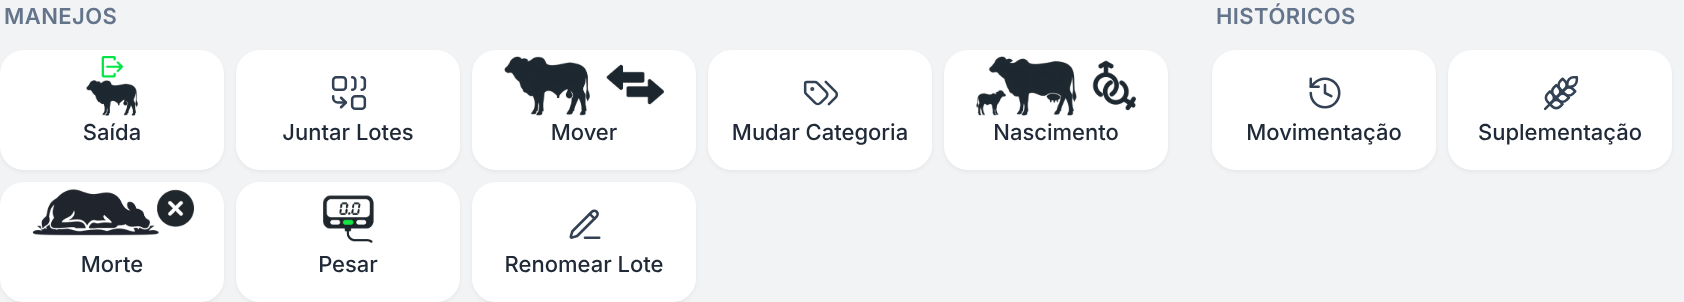
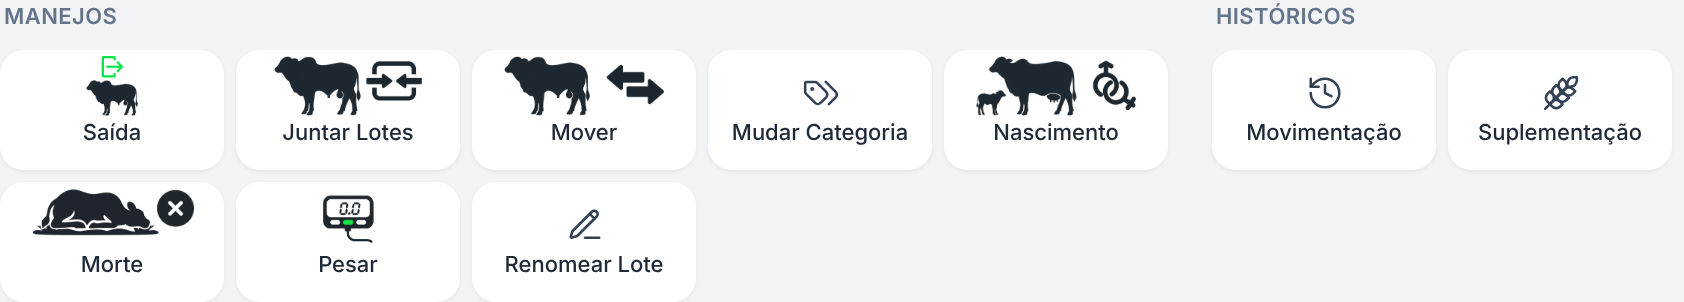
Manejos: ícone do Juntar Lotes (D-PROD-131)
Claude-Session: https://claude.ai/code/session_01UazgFfaVrfzGvoj5VQP7sQ

Changed region(s): [[0.1544, 0.1788, 0.247, 0.3874]]

diff --git a/tests/smoke/iconesManejo.test.jsx b/tests/smoke/iconesManejo.test.jsx
@@ -1,21 +1,22 @@
 // @vitest-environment jsdom
-/** D-PROD-131 — "Saída" (antigo Abate), "Mover", "Pesar", "Nascimento" e "Morte" usam as imagens do proprietário. */
+/** D-PROD-131 — "Saída" (antigo Abate), "Mover", "Pesar", "Nascimento", "Morte" e "Juntar Lotes" usam as imagens do proprietário. */
 import React from "react";
 import { describe, it, expect, afterEach } from "vitest";
 import { render, screen, cleanup } from "@testing-library/react";
 import { existsSync, readFileSync } from "node:fs";
 import AcoesDoLote from "@/components/mapa/AcoesDoLote";
-import { IconeMorte, IconeMoverAnimais, IconeNascimento, IconePesar, IconeSaida } from "@/components/mapa/IconesManejo";
+import { IconeJuntarLotes, IconeMorte, IconeMoverAnimais, IconeNascimento, IconePesar, IconeSaida } from "@/components/mapa/IconesManejo";
 
 afterEach(cleanup);
 
 describe("Ícones em imagem dos manejos (D-PROD-131)", () => {
-  it("imagens existem e o Detalhes do Lote usa nos quadros Saída, Mover, Pesar, Nascimento e Morte", () => {
+  it("imagens existem e o Detalhes do Lote usa nos quadros Saída, Mover, Pesar, Nascimento, Morte e Juntar Lotes", () => {
     expect(existsSync("public/icons/mover-animais.png")).toBe(true);
     expect(existsSync("public/icons/pesar.png")).toBe(true);
     expect(existsSync("public/icons/nascimento.png")).toBe(true);
     expect(existsSync("public/icons/saida.png")).toBe(true);
     expect(existsSync("public/icons/morte.png")).toBe(true);
+    expect(existsSync("public/icons/juntar-lotes.png")).toBe(true);
     const dl = readFileSync("src/components/mapa/DetalhesLote.jsx", "utf8");
     expect(dl).toMatch(/nome: 'Mover', Icone: IconeMoverAnimais/);
     expect(dl).toMatch(/nome: 'Pesar', Icone: IconePesar/);
@@ -23,7 +24,8 @@ describe("Ícones em imagem dos manejos (D-PROD-131)", () => {
     expect(dl).toMatch(/nome: 'Saída', Icone: IconeSaida, onClick: \(\) => abrirManejo\(setShowAbate\)/);
     expect(dl).toMatch(/titulo="Registrar Saída"/);
     expect(dl).toMatch(/nome: 'Morte', Icone: IconeMorte/);
-    expect(dl).not.toMatch(/nome: 'Abate'|ArrowLeftRight|\bScale\b|\bBaby\b|\bBeef\b|HeartCrack/);
+    expect(dl).toMatch(/nome: 'Juntar Lotes', Icone: IconeJuntarLotes/);
+    expect(dl).not.toMatch(/nome: 'Abate'|ArrowLeftRight|\bScale\b|\bBaby\b|\bBeef\b|HeartCrack|\bCombine\b/);
   });
 
   it("aparecem no quadro, com o nome, sem descer a linha", () => {
@@ -34,6 +36,7 @@ describe("Ícones em imagem dos manejos (D-PROD-131)", () => {
         { nome: "Nascimento", Icone: IconeNascimento, onClick: () => {} },
         { nome: "Saída", Icone: IconeSaida, onClick: () => {} },
         { nome: "Morte", Icone: IconeMorte, onClick: () => {} },
+        { nome: "Juntar Lotes", Icone: IconeJuntarLotes, onClick: () => {} },
       ] }]} />,
     );
     expect(screen.getByRole("button", { name: "Mover" }).querySelector("img")?.getAttribute("src")).toBe("/icons/mover-animais.png");
@@ -41,6 +44,7 @@ describe("Ícones em imagem dos manejos (D-PROD-131)", () => {
     expect(screen.getByRole("button", { name: "Nascimento" }).querySelector("img")?.getAttribute("src")).toBe("/icons/nascimento.png");
     expect(screen.getByRole("button", { name: "Saída" }).querySelector("img")?.getAttribute("src")).toBe("/icons/saida.png");
     expect(screen.getByRole("button", { name: "Morte" }).querySelector("img")?.getAttribute("src")).toBe("/icons/morte.png");
+    expect(screen.getByRole("button", { name: "Juntar Lotes" }).querySelector("img")?.getAttribute("src")).toBe("/icons/juntar-lotes.png");
     const css = readFileSync("src/styles/lancamento-lote.css", "utf8");
     expect(css).toMatch(/\.mk-al__quadro \.mk-al__img \{[^}]*display: block;[^}]*height: 32px;/);
     expect(css).toMatch(/\.mk-al--embaixo \.mk-al__quadro \.mk-al__img \{[^}]*height: 30px;[^}]*margin: -9px 0 -2px;/);

diff --git a/src/components/mapa/DetalhesLote.jsx b/src/components/mapa/DetalhesLote.jsx
@@ -34,8 +34,8 @@ import LancField from "@/components/cadastro/base1/LancField";
 import ResumoSuplementacao from "../suplementacao/ResumoSuplementacao";
 import InformacoesArea from "./InformacoesArea";
 import { Progress } from "@/components/ui/progress";
-import { Combine, History, PencilLine, Tags, Wheat } from "lucide-react";
-import { IconeMorte, IconeMoverAnimais, IconeNascimento, IconePesar, IconeSaida } from "@/components/mapa/IconesManejo";
+import { History, PencilLine, Tags, Wheat } from "lucide-react";
+import { IconeJuntarLotes, IconeMorte, IconeMoverAnimais, IconeNascimento, IconePesar, IconeSaida } from "@/components/mapa/IconesManejo";
 import { corpoNascimento, corpoPesagem, corpoMudancaCategoria, corpoJuncao, corpoBaixa, previaJuncao, corpoTransferenciaLedger, ehPosicaoDoLedger } from "@/domain/lotes/manejoRebanho";
 import { enviarManejoRebanho, enviarJuncaoLotes, enviarBaixaRebanho, enviarTransferenciaLedger, mensagemDaTransferenciaLedger, mensagemDoErro, codigoDoErro, MENSAGENS_MANEJO_REBANHO } from "@/services/manejoRebanhoService";
 import { escopoDoUsuario } from "../lotes/ExcluirMovimentacao";
@@ -586,7 +586,7 @@ export default function DetalhesLote({ lotes, onClose, permissions = {} }) {
         };
         const manejos = [
           permissions.registrar_abate !== false && { nome: 'Saída', Icone: IconeSaida, onClick: () => abrirManejo(setShowAbate) },
-          permissions.juntar_lotes !== false && lotes.length > 1 && categoriasJuntaveis.length > 0 && { nome: 'Juntar Lotes', Icone: Combine, onClick: abrirJuncao },
+          permissions.juntar_lotes !== false && lotes.length > 1 && categoriasJuntaveis.length > 0 && { nome: 'Juntar Lotes', Icone: IconeJuntarLotes, onClick: abrirJuncao },
           permissions.mover_lotes !== false && { nome: 'Mover', Icone: IconeMoverAnimais, onClick: () => abrirManejo(setShowMovimentacao) },
           permissions.mudar_categoria_lotes !== false && { nome: 'Mudar Categoria', Icone: Tags, onClick: () => abrirManejo(setShowMudancaCategoria) },
           permissions.registrar_nascimento !== false && { nome: 'Nascimento', Icone: IconeNascimento, onClick: () => abrirManejo(setShowNascimento) },

diff --git a/src/components/mapa/IconesManejo.jsx b/src/components/mapa/IconesManejo.jsx
@@ -29,3 +29,6 @@ export const IconeSaida = iconeImagem("/icons/saida.png");
 
 /** Morte: animal deitado com o X. */
 export const IconeMorte = iconeImagem("/icons/morte.png");
+
+/** Juntar Lotes: boi com as setas que se encontram. */
+export const IconeJuntarLotes = iconeImagem("/icons/juntar-lotes.png");

diff --git a/docs/engineering/DECISIONS.md b/docs/engineering/DECISIONS.md
@@ -5034,18 +5034,19 @@ Em cada cadeia: bloqueio antes do clique, exclusão do dependente, desbloqueio s
   - aproximando: média 97% e pior quadro 94%;
   - evidência: v19-05.
 
-## D-PROD-131 — Manejos "Saída" (antigo Abate), "Mover", "Pesar", "Nascimento" e "Morte": ícones do proprietário
+## D-PROD-131 — Manejos "Saída" (antigo Abate), "Mover", "Pesar", "Nascimento", "Morte" e "Juntar Lotes": ícones do proprietário
 
-- **Contexto:** o proprietário enviou imagens próprias para cinco botões de manejo e pediu que "Abate" passe a se chamar "Saída":
+- **Contexto:** o proprietário enviou imagens próprias para seis botões de manejo e pediu que "Abate" passe a se chamar "Saída":
   - Saída: um boi com a seta de saída;
   - Mover: um boi com setas de ida e volta (segunda versão; a primeira tinha porteiras);
   - Pesar: uma balança digital com o visor 0.0;
   - Nascimento: uma vaca com o bezerro e os símbolos de macho e fêmea (segunda versão, toda em cinza-escuro);
-  - Morte: um animal deitado com um X.
+  - Morte: um animal deitado com um X;
+  - Juntar Lotes: um boi com setas que se encontram.
 - **Decisão:**
-  - Os quadros "Saída", "Mover", "Pesar", "Nascimento" e "Morte" dos Manejos (Detalhes do Lote) usam essas imagens no lugar dos ícones `Beef`, `ArrowLeftRight`, `Scale`, `Baby` e `HeartCrack`.
+  - Os quadros "Saída", "Mover", "Pesar", "Nascimento", "Morte" e "Juntar Lotes" dos Manejos (Detalhes do Lote) usam essas imagens no lugar dos ícones `Beef`, `ArrowLeftRight`, `Scale`, `Baby`, `HeartCrack` e `Combine`.
   - O quadro "Abate" passa a se chamar **"Saída"**, e a janela passa a ser "Registrar Saída". O registro continua sendo o mesmo manejo de abate: tipo `Abate`, `FormularioAbate` e a permissão `registrar_abate`.
-  - As imagens foram recortadas, com o fundo branco tirado, e salvas em `public/icons/` (`saida.png`, `mover-animais.png`, `pesar.png`, `nascimento.png`, `morte.png`). Como as imagens mais largas têm cerca de 2,7:1, a largura máxima é de 88 px, o que ainda cabe no quadro. Elas são exibidas por `IconesManejo`.
+  - As imagens foram recortadas, com o fundo branco tirado, e salvas em `public/icons/` (`saida.png`, `mover-animais.png`, `pesar.png`, `nascimento.png`, `morte.png`, `juntar-lotes.png`). Como as imagens mais largas têm cerca de 2,7:1, a largura máxima é de 88 px, o que ainda cabe no quadro. Elas são exibidas por `IconesManejo`.
   - A pedido do proprietário, ficam **maiores** que os outros ícones: 32 px, 36 px na folha do celular e 30 px nos quadros menores do computador.
   - Uma margem negativa faz a imagem crescer para cima, sem aumentar o quadro nem descer o nome.
 - **Consequência:**

diff --git a/docs/engineering/UX-MOBILE-V2-REPORT.md b/docs/engineering/UX-MOBILE-V2-REPORT.md
@@ -329,11 +329,11 @@ Duas tentativas anteriores nesta rodada (ícone fixo com a ponta no ponto e íco
 
 O novo visual dos botões do Mapa Geral (D-PROD-131: painel Visualização, sem o ✕ e sem o cabeçalho no celular) foi **desfeito a pedido do proprietário** ("remova por enquanto"). O mapa voltou ao estado do D-PROD-130. O número D-PROD-131 fica livre.
 
-## V21 — Ícones do "Saída", do "Mover", do "Pesar", do "Nascimento" e da "Morte" (D-PROD-131)
+## V21 — Ícones do "Saída", do "Mover", do "Pesar", do "Nascimento", da "Morte" e do "Juntar Lotes" (D-PROD-131)
 
 | Pedido | Feito | Evidência |
 |---|---|---|
-| Usar as imagens enviadas no Saída (boi com seta, antigo Abate), no Mover (boi com setas), no Pesar (balança), no Nascimento (vaca com bezerro) e na Morte (animal deitado com X), e deixá-las maiores; trocar o nome "Abate" por "Saída" | Os quadros mostram as imagens maiores, sem aumentar o quadro e com o nome alinhado | v21-01 (computador), v21-02 (celular) |
+| Usar as imagens enviadas no Saída (boi com seta, antigo Abate), no Mover (boi com setas), no Pesar (balança), no Nascimento (vaca com bezerro) na Morte (animal deitado com X) e no Juntar Lotes (boi com setas que se encontram), e deixá-las maiores; trocar o nome "Abate" por "Saída" | Os quadros mostram as imagens maiores, sem aumentar o quadro e com o nome alinhado | v21-01 (computador), v21-02 (celular) |
 
 **Não testado em aparelho.**
 
